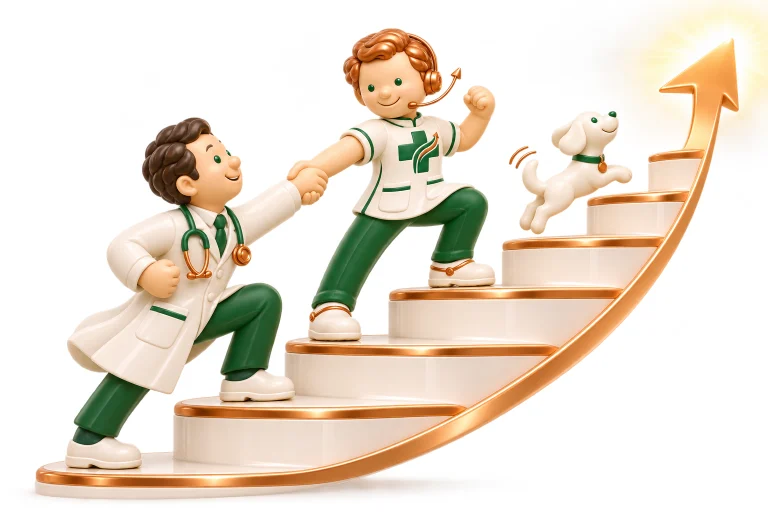
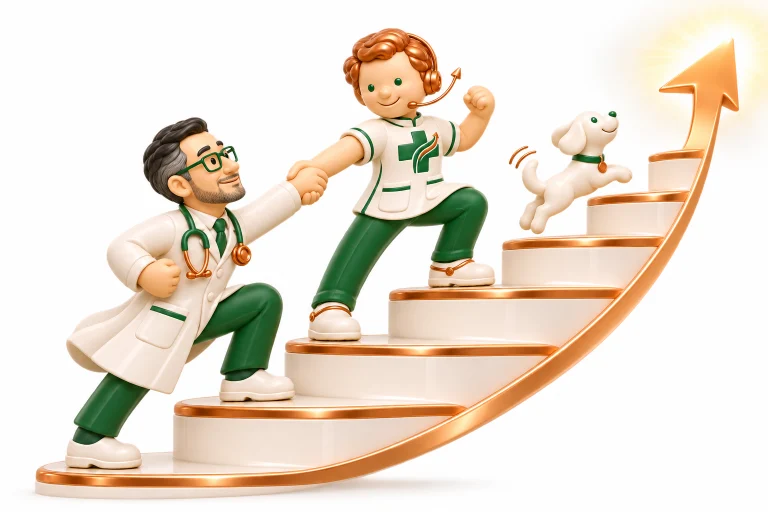
安心ページ上部を新しい盾の絵に・院長の顔をラマルクと見分けやすく（導入の流れ・パートナー・ビジョン）

diff --git a/trust.html b/trust.html
@@ -15,7 +15,7 @@
   <a class="cta" href="request.html">資料を受け取る</a>
 </header>
 <main>
-<section class="page-head"><div class="wrap"><div><div class="kick">Trust</div><h1>小さな会社に、<br>診療の土台を<em>預けるために</em>。</h1><p>その不安には、言葉ではなく仕組みと契約でお答えします。</p></div><div class="ill"><img src="assets/img/ill/shield.webp" alt="" width="768" height="512"></div></div></section><section class="sec "><div class="wrap"><div class="kick">Migration</div><h2>これまでのデータは、こちらで移します</h2><p class="intro">今お使いのシステムによって取り出せる範囲が違うため、方法は医院さまごとに確認してからご案内します。導入病院では11年分・267万件の診療明細を、飼い主さんとペットの登録だけでなく記録ごと移しました。</p></div></section><section class="sec "><div class="wrap"><div class="kick">Security</div><h2>守りの仕組み</h2><div class="grid g3"><div class="box spot"><div class="ic"><svg class="ico" aria-hidden="true" xmlns="http://www.w3.org/2000/svg" width="24" height="24" viewBox="0 0 24 24" fill="none" stroke="currentColor" stroke-width="1.75" stroke-linecap="round" stroke-linejoin="round" ><path d="M10 12h4" /><path d="M10 8h4" /><path d="M14 21v-3a2 2 0 0 0-4 0v3" /><path d="M6 10H4a2 2 0 0 0-2 2v7a2 2 0 0 0 2 2h16a2 2 0 0 0 2-2V9a2 2 0 0 0-2-2h-2" /><path d="M6 21V5a2 2 0 0 1 2-2h8a2 2 0 0 1 2 2v16" /></svg></div><h3>医院ごとに、区画を分けます</h3><p>本体はクラウドに置き、アプリ・データベース・権限・鍵まで医院ごとに分けます。1か所の事故がほかの医院に広がらない作りです。</p></div><div class="box spot"><div class="ic"><svg class="ico" aria-hidden="true" xmlns="http://www.w3.org/2000/svg" width="24" height="24" viewBox="0 0 24 24" fill="none" stroke="currentColor" stroke-width="1.75" stroke-linecap="round" stroke-linejoin="round" ><path d="M11 21.73a2 2 0 0 0 2 0l7-4A2 2 0 0 0 21 16V8a2 2 0 0 0-1-1.73l-7-4a2 2 0 0 0-2 0l-7 4A2 2 0 0 0 3 8v8a2 2 0 0 0 1 1.73z" /><path d="M12 22V12" /><polyline points="3.29 7 12 12 20.71 7" /><path d="m7.5 4.27 9 5.15" /></svg></div><h3>院内の機械は、最小限</h3><p>院内に置くのは、検査機器やレントゲンとつなぐ小さな中継機だけ。置くのは機器とのやり取りに要るデータと、回線が切れたときに診療を続けるための控えだけです。</p></div><div class="box spot"><div class="ic"><svg class="ico" aria-hidden="true" xmlns="http://www.w3.org/2000/svg" width="24" height="24" viewBox="0 0 24 24" fill="none" stroke="currentColor" stroke-width="1.75" stroke-linecap="round" stroke-linejoin="round" ><path d="M10.94 5.274A7 7 0 0 1 15.71 10h1.79a4.5 4.5 0 0 1 4.222 6.057" /><path d="M18.796 18.81A4.5 4.5 0 0 1 17.5 19H9A7 7 0 0 1 5.79 5.78" /><path d="m2 2 20 20" /></svg></div><h3>回線が切れても、診療を続けられます</h3><p>予備のモバイル回線、中継機の控え、紙で続ける手順の3つを標準で用意します。</p></div><div class="box spot"><div class="ic"><svg class="ico" aria-hidden="true" xmlns="http://www.w3.org/2000/svg" width="24" height="24" viewBox="0 0 24 24" fill="none" stroke="currentColor" stroke-width="1.75" stroke-linecap="round" stroke-linejoin="round" ><path d="M3 12a9 9 0 0 1 9-9 9.75 9.75 0 0 1 6.74 2.74L21 8" /><path d="M21 3v5h-5" /><path d="M21 12a9 9 0 0 1-9 9 9.75 9.75 0 0 1-6.74-2.74L3 16" /><path d="M8 16H3v5" /></svg></div><h3>バックアップは「戻せるか」まで</h3><p>控えを取るだけで終わらせず、実際に戻せるかを医院ごとに試します。</p></div><div class="box spot"><div class="ic"><svg class="ico" aria-hidden="true" xmlns="http://www.w3.org/2000/svg" width="24" height="24" viewBox="0 0 24 24" fill="none" stroke="currentColor" stroke-width="1.75" stroke-linecap="round" stroke-linejoin="round" ><path d="M12 8V4H8" /><rect width="16" height="12" x="4" y="8" rx="2" /><path d="M2 14h2" /><path d="M20 14h2" /><path d="M15 13v2" /><path d="M9 13v2" /></svg></div><h3>AI は下書きまで</h3><p>獣医師が確認して確定するまで、カルテには入りません。AI へ送るのは下書きに必要な文章だけで、法人向けの契約で学習には使われません。</p></div><div class="box spot"><div class="ic"><svg class="ico" aria-hidden="true" xmlns="http://www.w3.org/2000/svg" width="24" height="24" viewBox="0 0 24 24" fill="none" stroke="currentColor" stroke-width="1.75" stroke-linecap="round" stroke-linejoin="round" ><path d="M2.586 17.414A2 2 0 0 0 2 18.828V21a1 1 0 0 0 1 1h3a1 1 0 0 0 1-1v-1a1 1 0 0 1 1-1h1a1 1 0 0 0 1-1v-1a1 1 0 0 1 1-1h.172a2 2 0 0 0 1.414-.586l.814-.814a6.5 6.5 0 1 0-4-4z" /><circle cx="16.5" cy="7.5" r=".5" fill="currentColor" /></svg></div><h3>解約しても、データはお返しします</h3><p>カルテの本文・画像・検査結果まで、追加料金なしでお返しします。中継機は回収して消去し、消去証明書をお渡しします。</p></div></div></div></section><section class="sec "><div class="wrap"><div class="kick">Proof</div><h2>第三者の目と、権利</h2><div class="grid g3"><div class="box spot"><h3>特許出願中</h3><p>医院ごとに進化する仕組みについて、特許を出願しています（特願2026-209921）。</p></div><div class="box spot"><h3>ISMS 取得準備中</h3><p>情報セキュリティの国際規格 ISO/IEC 27001 と、クラウドの規格 27017 の取得に向けて準備を進めています。</p></div><div class="box spot"><h3>セキュリティ情報を毎日公開</h3><p>私たちの守り方と、世界のセキュリティの最新情報を毎朝更新して公開しています。<br><a class="more" href="security/">セキュリティ情報を見る</a></p></div></div></div></section><section class="sec"><div class="wrap"><p class="note">ほかの医院さま向けには、本体をクラウドの医院ごとの区画に置く形でご提供します。現在、その準備を進めています（導入病院では院内のサーバーで本番稼働中です）。</p></div></section><section class="sec"><div class="wrap"><div class="cta-band">
+<section class="page-head"><div class="wrap"><div><div class="kick">Trust</div><h1>小さな会社に、<br>診療の土台を<em>預けるために</em>。</h1><p>その不安には、言葉ではなく仕組みと契約でお答えします。</p></div><div class="ill"><img src="assets/img/ill/trust.webp" alt="" width="768" height="512"></div></div></section><section class="sec "><div class="wrap"><div class="kick">Migration</div><h2>これまでのデータは、こちらで移します</h2><p class="intro">今お使いのシステムによって取り出せる範囲が違うため、方法は医院さまごとに確認してからご案内します。導入病院では11年分・267万件の診療明細を、飼い主さんとペットの登録だけでなく記録ごと移しました。</p></div></section><section class="sec "><div class="wrap"><div class="kick">Security</div><h2>守りの仕組み</h2><div class="grid g3"><div class="box spot"><div class="ic"><svg class="ico" aria-hidden="true" xmlns="http://www.w3.org/2000/svg" width="24" height="24" viewBox="0 0 24 24" fill="none" stroke="currentColor" stroke-width="1.75" stroke-linecap="round" stroke-linejoin="round" ><path d="M10 12h4" /><path d="M10 8h4" /><path d="M14 21v-3a2 2 0 0 0-4 0v3" /><path d="M6 10H4a2 2 0 0 0-2 2v7a2 2 0 0 0 2 2h16a2 2 0 0 0 2-2V9a2 2 0 0 0-2-2h-2" /><path d="M6 21V5a2 2 0 0 1 2-2h8a2 2 0 0 1 2 2v16" /></svg></div><h3>医院ごとに、区画を分けます</h3><p>本体はクラウドに置き、アプリ・データベース・権限・鍵まで医院ごとに分けます。1か所の事故がほかの医院に広がらない作りです。</p></div><div class="box spot"><div class="ic"><svg class="ico" aria-hidden="true" xmlns="http://www.w3.org/2000/svg" width="24" height="24" viewBox="0 0 24 24" fill="none" stroke="currentColor" stroke-width="1.75" stroke-linecap="round" stroke-linejoin="round" ><path d="M11 21.73a2 2 0 0 0 2 0l7-4A2 2 0 0 0 21 16V8a2 2 0 0 0-1-1.73l-7-4a2 2 0 0 0-2 0l-7 4A2 2 0 0 0 3 8v8a2 2 0 0 0 1 1.73z" /><path d="M12 22V12" /><polyline points="3.29 7 12 12 20.71 7" /><path d="m7.5 4.27 9 5.15" /></svg></div><h3>院内の機械は、最小限</h3><p>院内に置くのは、検査機器やレントゲンとつなぐ小さな中継機だけ。置くのは機器とのやり取りに要るデータと、回線が切れたときに診療を続けるための控えだけです。</p></div><div class="box spot"><div class="ic"><svg class="ico" aria-hidden="true" xmlns="http://www.w3.org/2000/svg" width="24" height="24" viewBox="0 0 24 24" fill="none" stroke="currentColor" stroke-width="1.75" stroke-linecap="round" stroke-linejoin="round" ><path d="M10.94 5.274A7 7 0 0 1 15.71 10h1.79a4.5 4.5 0 0 1 4.222 6.057" /><path d="M18.796 18.81A4.5 4.5 0 0 1 17.5 19H9A7 7 0 0 1 5.79 5.78" /><path d="m2 2 20 20" /></svg></div><h3>回線が切れても、診療を続けられます</h3><p>予備のモバイル回線、中継機の控え、紙で続ける手順の3つを標準で用意します。</p></div><div class="box spot"><div class="ic"><svg class="ico" aria-hidden="true" xmlns="http://www.w3.org/2000/svg" width="24" height="24" viewBox="0 0 24 24" fill="none" stroke="currentColor" stroke-width="1.75" stroke-linecap="round" stroke-linejoin="round" ><path d="M3 12a9 9 0 0 1 9-9 9.75 9.75 0 0 1 6.74 2.74L21 8" /><path d="M21 3v5h-5" /><path d="M21 12a9 9 0 0 1-9 9 9.75 9.75 0 0 1-6.74-2.74L3 16" /><path d="M8 16H3v5" /></svg></div><h3>バックアップは「戻せるか」まで</h3><p>控えを取るだけで終わらせず、実際に戻せるかを医院ごとに試します。</p></div><div class="box spot"><div class="ic"><svg class="ico" aria-hidden="true" xmlns="http://www.w3.org/2000/svg" width="24" height="24" viewBox="0 0 24 24" fill="none" stroke="currentColor" stroke-width="1.75" stroke-linecap="round" stroke-linejoin="round" ><path d="M12 8V4H8" /><rect width="16" height="12" x="4" y="8" rx="2" /><path d="M2 14h2" /><path d="M20 14h2" /><path d="M15 13v2" /><path d="M9 13v2" /></svg></div><h3>AI は下書きまで</h3><p>獣医師が確認して確定するまで、カルテには入りません。AI へ送るのは下書きに必要な文章だけで、法人向けの契約で学習には使われません。</p></div><div class="box spot"><div class="ic"><svg class="ico" aria-hidden="true" xmlns="http://www.w3.org/2000/svg" width="24" height="24" viewBox="0 0 24 24" fill="none" stroke="currentColor" stroke-width="1.75" stroke-linecap="round" stroke-linejoin="round" ><path d="M2.586 17.414A2 2 0 0 0 2 18.828V21a1 1 0 0 0 1 1h3a1 1 0 0 0 1-1v-1a1 1 0 0 1 1-1h1a1 1 0 0 0 1-1v-1a1 1 0 0 1 1-1h.172a2 2 0 0 0 1.414-.586l.814-.814a6.5 6.5 0 1 0-4-4z" /><circle cx="16.5" cy="7.5" r=".5" fill="currentColor" /></svg></div><h3>解約しても、データはお返しします</h3><p>カルテの本文・画像・検査結果まで、追加料金なしでお返しします。中継機は回収して消去し、消去証明書をお渡しします。</p></div></div></div></section><section class="sec "><div class="wrap"><div class="kick">Proof</div><h2>第三者の目と、権利</h2><div class="grid g3"><div class="box spot"><h3>特許出願中</h3><p>医院ごとに進化する仕組みについて、特許を出願しています（特願2026-209921）。</p></div><div class="box spot"><h3>ISMS 取得準備中</h3><p>情報セキュリティの国際規格 ISO/IEC 27001 と、クラウドの規格 27017 の取得に向けて準備を進めています。</p></div><div class="box spot"><h3>セキュリティ情報を毎日公開</h3><p>私たちの守り方と、世界のセキュリティの最新情報を毎朝更新して公開しています。<br><a class="more" href="security/">セキュリティ情報を見る</a></p></div></div></div></section><section class="sec"><div class="wrap"><p class="note">ほかの医院さま向けには、本体をクラウドの医院ごとの区画に置く形でご提供します。現在、その準備を進めています（導入病院では院内のサーバーで本番稼働中です）。</p></div></section><section class="sec"><div class="wrap"><div class="cta-band">
   <div><div class="kick">Request</div><h2>まずは資料を、<br>LINE で受け取ってください。</h2>
     <p>病院名・院長名・（開業前の方は）開業予定の時期をお送りください。確認のうえ、詳しい資料と画面の動画をお届けします。</p></div>
   <div class="act"><a class="btn w" href="https://line.me/R/ti/p/@310unbcy" rel="noopener">LINE で資料を受け取る</a><a class="btn o" href="request.html">資料請求の流れを見る</a>
